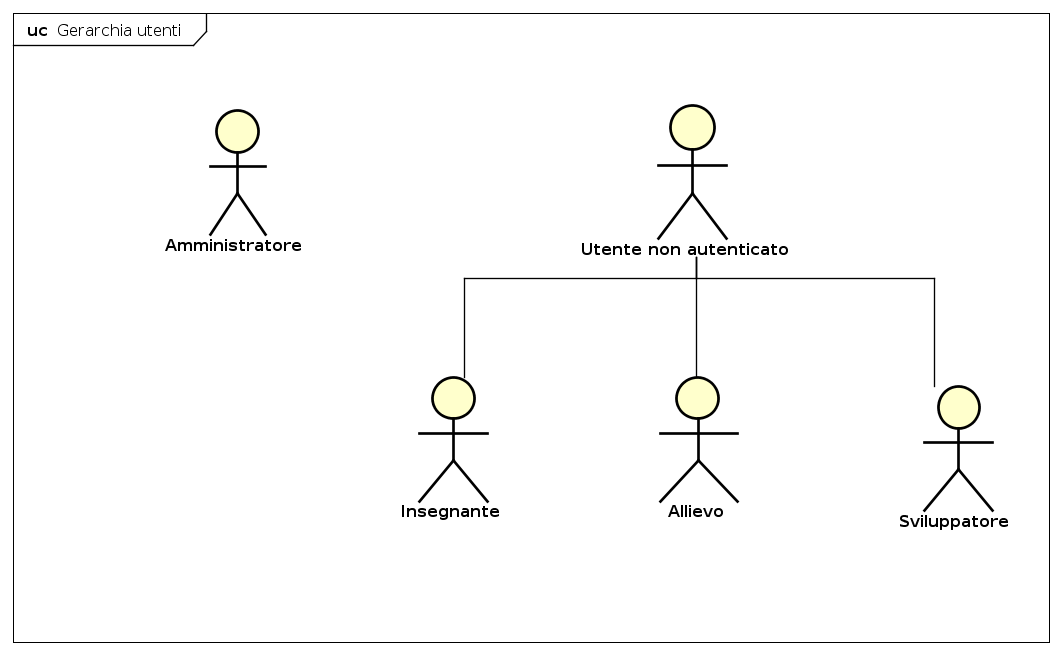
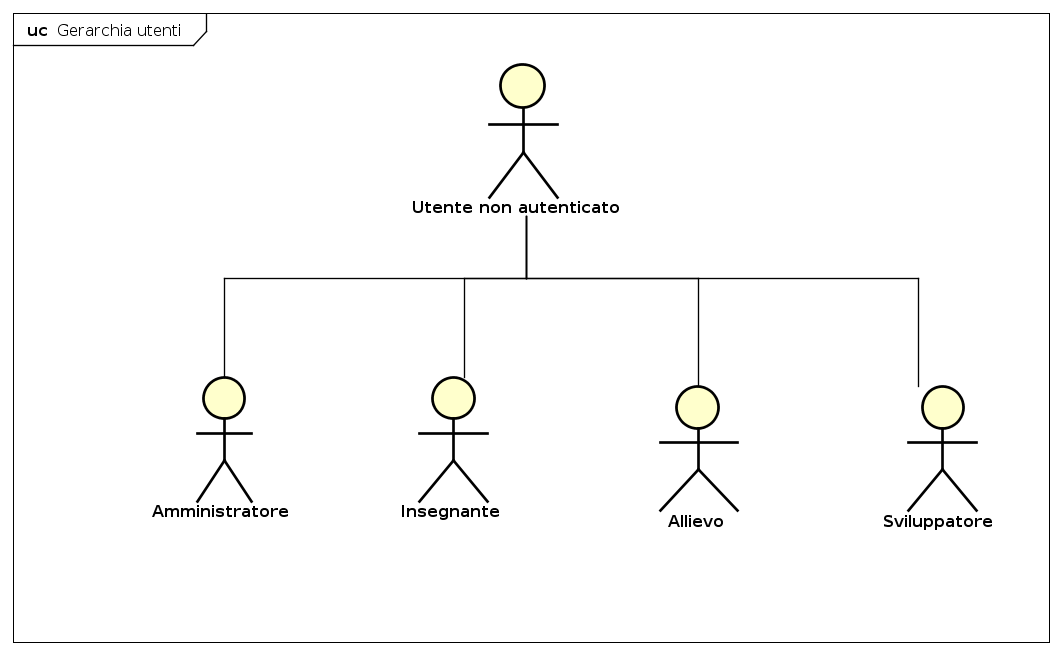
Modifiche AR

diff --git a/Working_Dir/Analisi_dei_requisiti/sez/utenteGenerico.tex b/Working_Dir/Analisi_dei_requisiti/sez/utenteGenerico.tex
@@ -70,9 +70,9 @@
 	\caption{Caso d'uso UC 1.2}\label{fig:12}
 \end{figure}
 \begin{itemize}
-	\item[•]\textbf{Attori}: Utente non registrato;
-	\item[•]\textbf{Descrizione}: l'utente non registrato compila il modulo di registrazione al fine di poter accedere al sistema;
-	\item[•]\textbf{Precondizione}: l'utente non è registrato;
+	\item[•]\textbf{Attori}: Utente non autenticato;
+	\item[•]\textbf{Descrizione}: l'utente non autenticato compila il modulo di registrazione al fine di poter accedere al sistema;
+	\item[•]\textbf{Precondizione}: l'utente non è autenticato;
 	\item[•]\textbf{Postcondizione}: l'utente si è registrato e può quindi accedere al sistema;
 	\item[•]\textbf{Flusso degli eventi principale}:
 	\begin{enumerate}
@@ -92,9 +92,9 @@
 
 \subsubsection{UC 1.2.1 - Inserimento nome utente}
 \begin{itemize}
-	\item[•]\textbf{Attori}: Utente non registrato;
+	\item[•]\textbf{Attori}: Utente non autenticato;
 	\item[•]\textbf{Descrizione}: l'utente inserisce un nome utente durante la registrazione;
-	\item[•]\textbf{Precondizione}: l'utente non è registrato e il nome utente non è definito;
+	\item[•]\textbf{Precondizione}: l'utente non è autenticato e il nome utente non è definito;
 	\item[•]\textbf{Postcondizione}: l'utente ha inserito un nome utente;
 	\item[•] \textbf{Estensioni}:
 	\begin{enumerate}
@@ -104,9 +104,9 @@
 
 \subsubsection{UC 1.2.2 - Inserimento email}
 \begin{itemize}
-	\item[•]\textbf{Attori}: Utente non registrato;
+	\item[•]\textbf{Attori}: Utente non autenticato;
 	\item[•]\textbf{Descrizione}: l'utente inserisce la sua email durante la registrazione;
-	\item[•]\textbf{Precondizione}: l'utente non è registrato e la email non è definita;
+	\item[•]\textbf{Precondizione}: l'utente non è autenticato e la email non è definita;
 	\item[•]\textbf{Postcondizione}: l'utente ha inserito la propria email;
 	\item[•] \textbf{Estensioni}:
 		\begin{enumerate}
@@ -116,9 +116,9 @@
 
 \subsubsection{UC 1.2.3 - Inserimento password}
 \begin{itemize}
-	\item[•]\textbf{Attori}: Utente non registrato;
+	\item[•]\textbf{Attori}: Utente non autenticato;
 	\item[•]\textbf{Descrizione}: l'utente inserisce una password durante procedura di registrazione;
-	\item[•]\textbf{Precondizione}: l'utente non è registrato e la password non è definita;
+	\item[•]\textbf{Precondizione}: l'utente non è autenticato e la password non è definita;
 	\item[•]\textbf{Postcondizione}: l'utente ha inserito una password;
 	\item[•] \textbf{Estensioni}:
 	\begin{enumerate}
@@ -128,9 +128,9 @@
 
 \subsubsection{UC 1.2.4 - Inserimento conferma password}
 \begin{itemize}
-	\item[•]\textbf{Attori}: Utente non registrato;
+	\item[•]\textbf{Attori}: Utente non autenticato;
 	\item[•]\textbf{Descrizione}: l'utente inserisce la conferma della password durante la registrazione;
-	\item[•]\textbf{Precondizione}: l'utente non è registrato e la conferma password non è definita;
+	\item[•]\textbf{Precondizione}: l'utente non è autenticato e la conferma password non è definita;
 	\item[•]\textbf{Postcondizione}: l'utente ha inserito la conferma della password;
 	\item[•] \textbf{Estensioni}:
 		\begin{enumerate}
@@ -140,9 +140,9 @@
 
 \subsubsection{UC 1.2.5 - Inserimento data di nascita}
 \begin{itemize}
-	\item[•]\textbf{Attori}: Utente non registrato;
+	\item[•]\textbf{Attori}: Utente non autenticato;
 	\item[•]\textbf{Descrizione}: l'utente inserisce la sua data di nascita durante la registrazione;
-	\item[•]\textbf{Precondizione}: l'utente non è registrato e la data di nascita non è definita;
+	\item[•]\textbf{Precondizione}: l'utente non è autenticato e la data di nascita non è definita;
 	\item[•]\textbf{Postcondizione}: l'utente ha inserito la sua data di nascita.
 \end{itemize}
 
